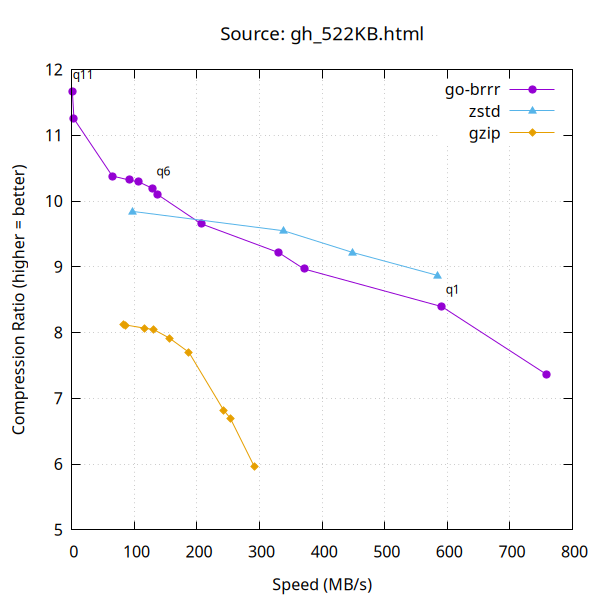
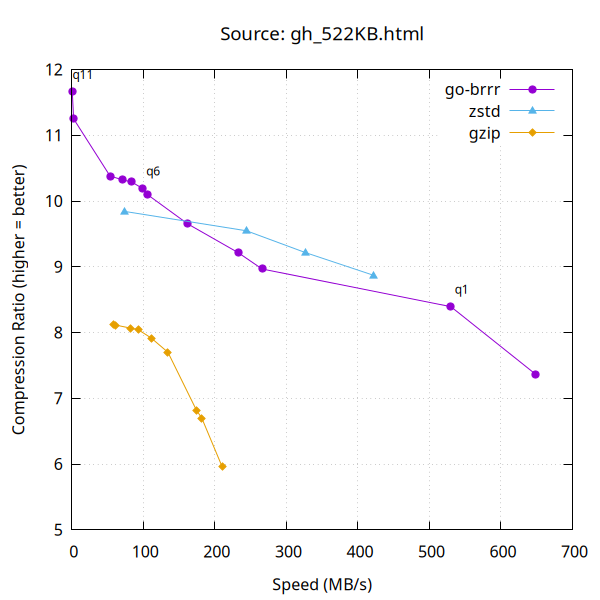
docs: rerun fresh benches with denoise and publish results in readme

diff --git a/README.md b/README.md
@@ -286,7 +286,8 @@ This library is a port of the [Brotli reference implementation](https://github.c
 
 ## Compression Speed vs Ratio
 
-All benchmarks were taken on the following setup:
+All benchmarks were taken on the following setup with turboboost, etc, being
+disabled via [denoise-amd.sh](scripts/denoise-amd.sh):
 
 ```
 goos: linux
@@ -315,19 +316,19 @@ Compared against other Go brotli libraries. **go-brrr** is the base in all compa
 <!-- bench:compress -->
 | | go-brrr (sec/op) | andybalholm (sec/op) |
 | --- | --- | --- |
-| Compress/q=0/payload=VariedPayloads | 6.211m ± 1% | 8.255m ± 0%  +32.91% (p=0.002 n=6) |
-| Compress/q=1/payload=VariedPayloads | 8.990m ± 1% | 11.888m ± 0%  +32.23% (p=0.002 n=6) |
-| Compress/q=2/payload=VariedPayloads | 12.17m ± 0% | 21.33m ± 1%  +75.33% (p=0.002 n=6) |
-| Compress/q=3/payload=VariedPayloads | 13.39m ± 1% | 25.50m ± 0%  +90.44% (p=0.002 n=6) |
-| Compress/q=4/payload=VariedPayloads | 21.13m ± 1% | 35.03m ± 0%  +65.77% (p=0.002 n=6) |
-| Compress/q=5/payload=VariedPayloads | 31.21m ± 0% | 47.45m ± 0%  +52.06% (p=0.002 n=6) |
-| Compress/q=6/payload=VariedPayloads | 34.66m ± 1% | 54.83m ± 0%  +58.16% (p=0.002 n=6) |
-| Compress/q=7/payload=VariedPayloads | 44.25m ± 1% | 70.99m ± 1%  +60.43% (p=0.002 n=6) |
-| Compress/q=8/payload=VariedPayloads | 51.63m ± 1% | 83.50m ± 1%  +61.72% (p=0.002 n=6) |
-| Compress/q=9/payload=VariedPayloads | 68.15m ± 1% | 107.83m ± 1%  +58.23% (p=0.002 n=6) |
-| Compress/q=10/payload=VariedPayloads | 881.6m ± 0% | 930.1m ± 1%   +5.49% (p=0.002 n=6) |
-| Compress/q=11/payload=VariedPayloads | 2.213 ± 0% | 2.390 ± 0%   +8.02% (p=0.002 n=6) |
-| **geomean** | 44.67m | 66.06m       +47.89% |
+| Compress/q=0/payload=VariedPayloads | 7.603m ± 0% | 11.530m ± 1%  +51.65% (p=0.002 n=6) |
+| Compress/q=1/payload=VariedPayloads | 10.49m ± 0% | 16.19m ± 0%  +54.42% (p=0.002 n=6) |
+| Compress/q=2/payload=VariedPayloads | 16.46m ± 0% | 29.26m ± 0%  +77.73% (p=0.002 n=6) |
+| Compress/q=3/payload=VariedPayloads | 18.17m ± 0% | 34.56m ± 0%  +90.21% (p=0.002 n=6) |
+| Compress/q=4/payload=VariedPayloads | 26.97m ± 0% | 47.53m ± 0%  +76.23% (p=0.002 n=6) |
+| Compress/q=5/payload=VariedPayloads | 39.57m ± 0% | 65.49m ± 3%  +65.50% (p=0.002 n=6) |
+| Compress/q=6/payload=VariedPayloads | 44.50m ± 0% | 74.82m ± 0%  +68.13% (p=0.002 n=6) |
+| Compress/q=7/payload=VariedPayloads | 54.50m ± 0% | 95.70m ± 0%  +75.60% (p=0.002 n=6) |
+| Compress/q=8/payload=VariedPayloads | 62.87m ± 0% | 113.77m ± 4%  +80.95% (p=0.002 n=6) |
+| Compress/q=9/payload=VariedPayloads | 83.32m ± 1% | 143.06m ± 0%  +71.71% (p=0.002 n=6) |
+| Compress/q=10/payload=VariedPayloads | 1.191 ± 0% | 1.310 ± 0%   +9.99% (p=0.002 n=6) |
+| Compress/q=11/payload=VariedPayloads | 3.036 ± 0% | 3.357 ± 0%  +10.56% (p=0.002 n=6) |
+| **geomean** | 56.97m | 90.49m       +58.82% |
 <!-- /bench:compress -->
 
 *Streaming* uses `brrr.NewReader` + `io.ReadAll`; *one-shot* uses `brrr.Decompress` on a complete in-memory blob.
@@ -337,25 +338,23 @@ Compared against other Go brotli libraries. **go-brrr** is the base in all compa
 <!-- bench:decompress -->
 | | go-brrr (sec/op) | andybalholm (sec/op) |
 | --- | --- | --- |
-| Decompress/q=4/payload=VariedPayloads | 3.909m ± 0% | 6.974m ± 0%  +78.38% (p=0.000 n=12) |
-| Decompress/q=5/payload=VariedPayloads | 3.848m ± 0% | 6.689m ± 0%  +73.81% (p=0.000 n=12) |
-| Decompress/q=6/payload=VariedPayloads | 3.737m ± 0% | 6.486m ± 0%  +73.57% (p=0.000 n=12) |
-| Decompress/q=11/payload=VariedPayloads | 4.068m ± 0% | 6.484m ± 0%  +59.40% (p=0.000 n=12) |
-| **geomean** | 3.889m | 6.655m       +71.14% |
+| Decompress/q=4/payload=VariedPayloads | 5.378m ± 0% | 9.539m ± 0%  +77.36% (p=0.000 n=12) |
+| Decompress/q=5/payload=VariedPayloads | 5.302m ± 0% | 9.143m ± 0%  +72.43% (p=0.000 n=12) |
+| Decompress/q=6/payload=VariedPayloads | 5.146m ± 0% | 8.881m ± 0%  +72.56% (p=0.000 n=12) |
+| Decompress/q=11/payload=VariedPayloads | 5.621m ± 0% | 8.959m ± 0%  +59.37% (p=0.000 n=12) |
+| **geomean** | 5.359m | 9.127m       +70.30% |
 <!-- /bench:decompress -->
 
 ### One-shot Decompression
 
 <!-- bench:decompresso -->
-| | go-brrr (sec/op) | andybalholm (sec/op) | google-brotli (sec/op) | cbrotli (sec/op) |
+| | go-brrr (sec/op) | andybalholm (sec/op) | cbrotli (sec/op) | google-brotli (sec/op) |
 | --- | --- | --- | --- | --- |
-| DecompressOneshot/q=4/payload=VariedPayloads | 3.993m ± 0% | 7.353m ± 1%  +84.14% (p=0.000 n=12) | 7.748m ± 1%  +94.05% (p=0.000 n=12) | 3.661m ± 1%  -8.31% (p=0.000 n=12) |
-| DecompressOneshot/q=5/payload=VariedPayloads | 3.980m ± 0% | 7.044m ± 1%  +76.97% (p=0.000 n=12) | 7.658m ± 1%  +92.39% (p=0.000 n=12) | 3.586m ± 1%  -9.91% (p=0.000 n=12) |
-| DecompressOneshot/q=6/payload=VariedPayloads | 3.850m ± 0% | 6.781m ± 1%  +76.15% (p=0.000 n=12) | 7.454m ± 1%  +93.61% (p=0.000 n=12) | 3.544m ± 2%  -7.94% (p=0.000 n=12) |
-| DecompressOneshot/q=11/payload=VariedPayloads | 4.149m ± 0% | 6.939m ± 2%  +67.25% (p=0.000 n=12) | 4.079m ± 1%  -1.69% (p=0.005 n=12) |
-| **geomean** | 3.992m | 7.026m       +76.03% | 7.619m       +93.35%                ¹ | 3.712m       -7.01% |
-
-¹ benchmark set differs from baseline; geomeans may not be comparable
+| DecompressOneshot/q=4/payload=VariedPayloads | 5.458m ± 0% | 10.042m ± 0%  +84.01% (p=0.000 n=12) | 5.191m ±  2%   -4.89% (p=0.000 n=12) | 10.595m ± 0%  +94.13% (p=0.000 n=12) |
+| DecompressOneshot/q=5/payload=VariedPayloads | 5.458m ± 1% | 9.609m ± 0%  +76.07% (p=0.000 n=12) | 5.022m ± 11%        ~ (p=0.514 n=12) | 10.541m ± 0%  +93.14% (p=0.000 n=12) |
+| DecompressOneshot/q=6/payload=VariedPayloads | 5.329m ± 1% | 9.384m ± 0%  +76.11% (p=0.000 n=12) | 4.916m ±  4%   -7.74% (p=0.001 n=12) | 10.240m ± 1%  +92.17% (p=0.000 n=12) |
+| DecompressOneshot/q=11/payload=VariedPayloads | 5.816m ± 1% | 9.540m ± 0%  +64.03% (p=0.000 n=12) | 6.981m ±  1%  +20.03% (p=0.000 n=12) | **crashed** |
+| **geomean** | 5.512m | 9.641m       +74.91% | 5.469m         -0.78% | 10.46m       +93.14%                 |
 <!-- /bench:decompresso -->
 
 
